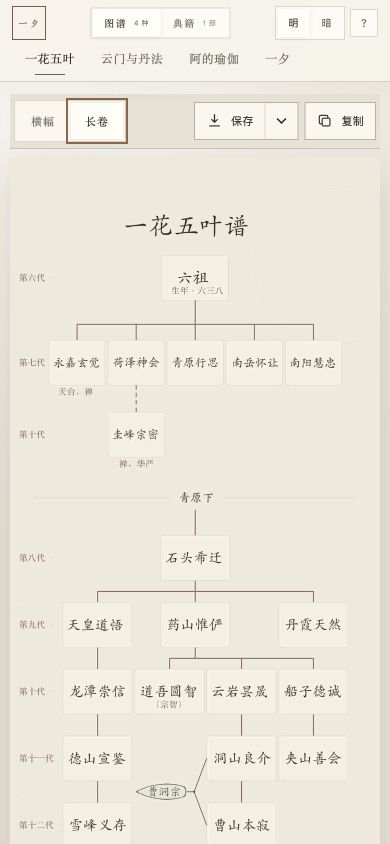
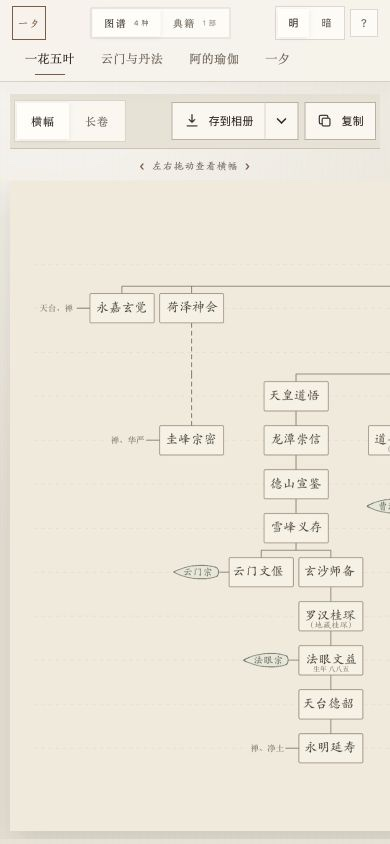
Default viewer to landscape

diff --git a/app/page.tsx b/app/page.tsx
@@ -41,6 +41,9 @@ type PreparedChartShare =
   | { originalHref: string; status: "loading" | "error" }
   | { originalHref: string; status: "ready"; file: File };
 
+// The legacy key may contain a viewport-derived value. This key records only
+// an explicit layout choice made through the controls.
+const LAYOUT_PREFERENCE_KEY = "yixi-chart-layout-choice";
 const HEART_SUTRA_SECTIONS = HEART_SUTRA_DOCUMENT.sections;
 
 const HEART_SUTRA_COPY_TEXT = [
@@ -322,15 +325,11 @@ export default function Home() {
     const layoutFromUrl = params.get("layout");
     const viewFromUrl = params.get("view");
     const storedTheme = window.localStorage.getItem("yixi-chart-theme");
-    const storedLayout = window.localStorage.getItem("yixi-chart-layout");
+    const storedLayout = window.localStorage.getItem(LAYOUT_PREFERENCE_KEY);
     const systemTheme: ChartTheme = window.matchMedia("(prefers-color-scheme: dark)")
       .matches
       ? "dark"
       : "light";
-    const deviceLayout: YihuaLayoutMode = window.matchMedia("(max-width: 820px)")
-      .matches
-      ? "mobile"
-      : "desktop";
 
     const frame = window.requestAnimationFrame(() => {
       if (isChartId(chartFromUrl)) setChartId(chartFromUrl);
@@ -339,7 +338,7 @@ export default function Home() {
           ? layoutFromUrl
           : isLayoutMode(storedLayout)
             ? storedLayout
-            : deviceLayout,
+            : "desktop",
       );
       if (viewFromUrl === "heart-sutra") setActiveView("heart-sutra");
       setTheme(
@@ -417,7 +416,6 @@ export default function Home() {
   useEffect(() => {
     if (!preferencesReady) return;
     window.localStorage.setItem("yixi-chart-theme", theme);
-    window.localStorage.setItem("yixi-chart-layout", layoutMode);
     const url = new URL(window.location.href);
     url.searchParams.set("chart", chartId);
     url.searchParams.set("theme", theme);
@@ -714,6 +712,11 @@ export default function Home() {
     prepareView({ nextTheme });
   }
 
+  function chooseLayout(nextLayoutMode: YihuaLayoutMode) {
+    window.localStorage.setItem(LAYOUT_PREFERENCE_KEY, nextLayoutMode);
+    prepareView({ nextLayoutMode });
+  }
+
   function chartShareFile(option: DownloadOption) {
     const prepared = preparedChartFiles.current.get(option.originalHref);
     if (prepared) return Promise.resolve(prepared);
@@ -807,6 +810,9 @@ export default function Home() {
   function chooseDownloadOption(option: DownloadOption) {
     setCopyStatus("idle");
     setSaveStatus("idle");
+    if (option.layout) {
+      window.localStorage.setItem(LAYOUT_PREFERENCE_KEY, option.layout);
+    }
     prepareView({
       nextTheme: option.theme ?? theme,
       nextLayoutMode: option.layout ?? layoutMode,
@@ -1117,9 +1123,7 @@ export default function Home() {
                       ]
                         .filter(Boolean)
                         .join(" ")}
-                      onClick={() =>
-                        prepareView({ nextLayoutMode: value })
-                      }
+                      onClick={() => chooseLayout(value)}
                       onPointerEnter={() =>
                         warmView({ nextLayoutMode: value })
                       }
@@ -1166,7 +1170,7 @@ export default function Home() {
                             saveStatus !== "error")
                         }
                         onClick={saveChartToPhotoLibrary}
-                        aria-label={`将当前显示的${chart.title}图片保存到相册`}
+                        aria-label={`将当前显示的${chart.title}图片存到相册`}
                         title="打开系统菜单后选择“存储图像”"
                       >
                         <DownloadIcon />
@@ -1189,11 +1193,11 @@ export default function Home() {
                         className="action-button"
                         href={currentDownload.originalHref}
                         download={currentDownload.filename}
-                        aria-label={`下载当前显示的${chart.title}图片`}
+                        aria-label={`将当前显示的${chart.title}图片存到相册`}
                         title={`下载当前显示：${currentDownload.label}`}
                       >
                         <DownloadIcon />
-                        <span>保存</span>
+                        <span>存到相册</span>
                       </a>
                     )}
 
@@ -1257,11 +1261,7 @@ export default function Home() {
                     type="button"
                     onClick={() => void saveHeartSutraImage()}
                     disabled={saveStatus === "saving"}
-                    aria-label={
-                      canShareImageFiles
-                        ? `在手机上分享或将${HEART_SUTRA_DOCUMENT.title}保存到相册`
-                        : `下载${HEART_SUTRA_DOCUMENT.title}图片`
-                    }
+                    aria-label={`将${HEART_SUTRA_DOCUMENT.title}图片存到相册`}
                     title={
                       canShareImageFiles
                         ? "打开系统菜单，可选择“存储到照片”"
@@ -1274,9 +1274,9 @@ export default function Home() {
                         ? "生成中"
                         : saveStatus === "saved"
                           ? "已保存"
-                        : saveStatus === "error"
+                          : saveStatus === "error"
                             ? "保存失败"
-                            : "保存"}
+                            : "存到相册"}
                     </span>
                   </button>
                   <button

diff --git a/app/guide/page.tsx b/app/guide/page.tsx
@@ -6,7 +6,7 @@ import styles from "./guide.module.css";
 export const metadata: Metadata = {
   title: "一夕｜30 秒上手",
   description:
-    "一夕简明使用说明：选择图谱或典籍，切换外观与版式，保存图片或复制文字。",
+    "一夕简明使用说明：选择图谱或典籍，切换外观与版式，存到相册或复制文字。",
 };
 
 const steps = [
@@ -29,18 +29,18 @@ const steps = [
   {
     number: "03",
     title: "切换版式",
-    copy: "「横幅」适合电脑、iPad；「长卷」适合手机向下阅读。",
+    copy: "默认显示「横幅」，手机和电脑一致；「长卷」适合手机向下阅读。",
     shotClass: styles.shotControls,
     ringClass: styles.ringLayout,
     shotAlt: "红圈标出的横幅和长卷切换按钮",
   },
   {
     number: "04",
-    title: "保存图片",
-    copy: "点「保存」即可。手机、iPad 在系统菜单选择「存储图像」，电脑会直接下载。",
+    title: "存到相册",
+    copy: "点「存到相册」即可。手机、iPad 在系统菜单选择「存储图像」，电脑会直接下载。",
     shotClass: styles.shotControls,
     ringClass: styles.ringSave,
-    shotAlt: "红圈标出的保存按钮和版本选择箭头",
+    shotAlt: "红圈标出的存到相册按钮和版本选择箭头",
   },
   {
     number: "05",
@@ -109,7 +109,7 @@ export default function GuidePage() {
               <div
                 className={styles.overviewDesktopShot}
                 role="img"
-                aria-label="电脑版图谱页面全貌，五个红圈分别标出内容选择、明暗、版式、保存与复制按钮"
+                aria-label="电脑版图谱页面全貌，五个红圈分别标出内容选择、明暗、版式、存到相册与复制按钮"
                 style={{ backgroundImage: `url("${desktopShot}")` }}
               />
               <span
@@ -134,7 +134,7 @@ export default function GuidePage() {
                 className={`${styles.callout} ${styles.desktopCalloutSave}`}
                 aria-hidden="true"
               >
-                <b>04 保存</b>
+                <b>04 相册</b>
               </span>
               <span
                 className={`${styles.callout} ${styles.desktopCalloutCopy}`}
@@ -147,7 +147,7 @@ export default function GuidePage() {
               <div
                 className={styles.overviewMobileShot}
                 role="img"
-                aria-label="手机版图谱页面上方全貌，五个红圈分别标出内容选择、明暗、版式、保存与复制按钮"
+                aria-label="手机版图谱页面上方全貌，五个红圈分别标出内容选择、明暗、版式、存到相册与复制按钮"
                 style={{ backgroundImage: `url("${mobileShot}")` }}
               />
               <span
@@ -192,7 +192,7 @@ export default function GuidePage() {
                 <b>03</b>切换版式
               </span>
               <span>
-                <b>04</b>保存图片
+                <b>04</b>存到相册
               </span>
               <span>
                 <b>05</b>复制文字